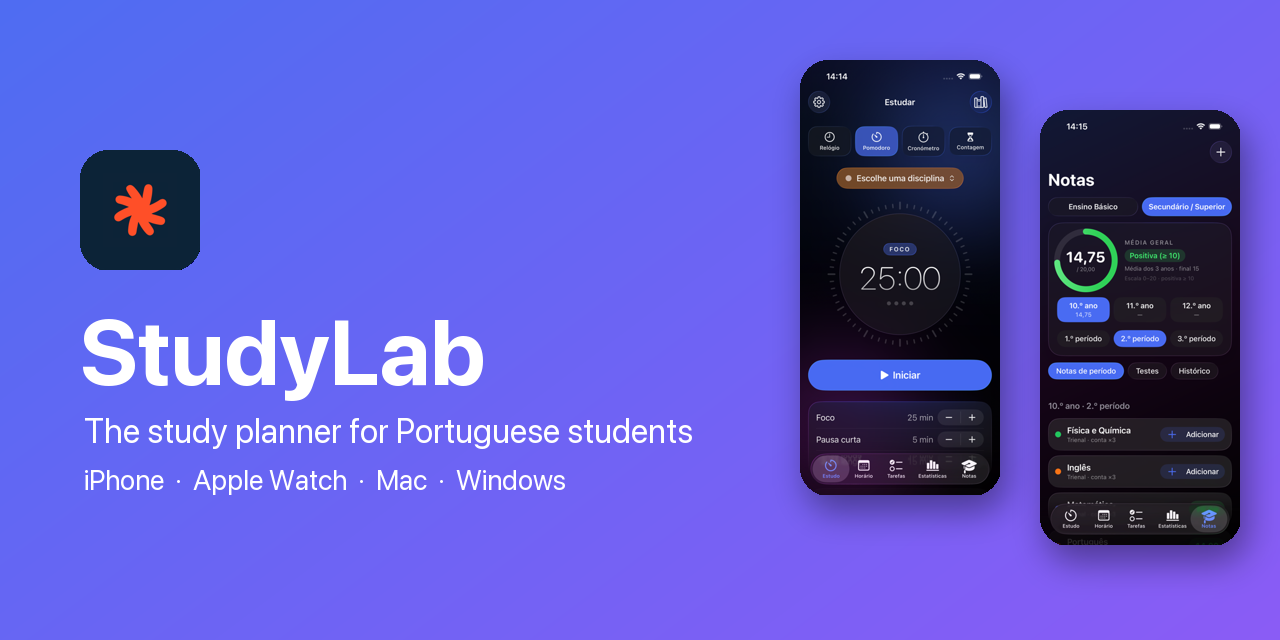
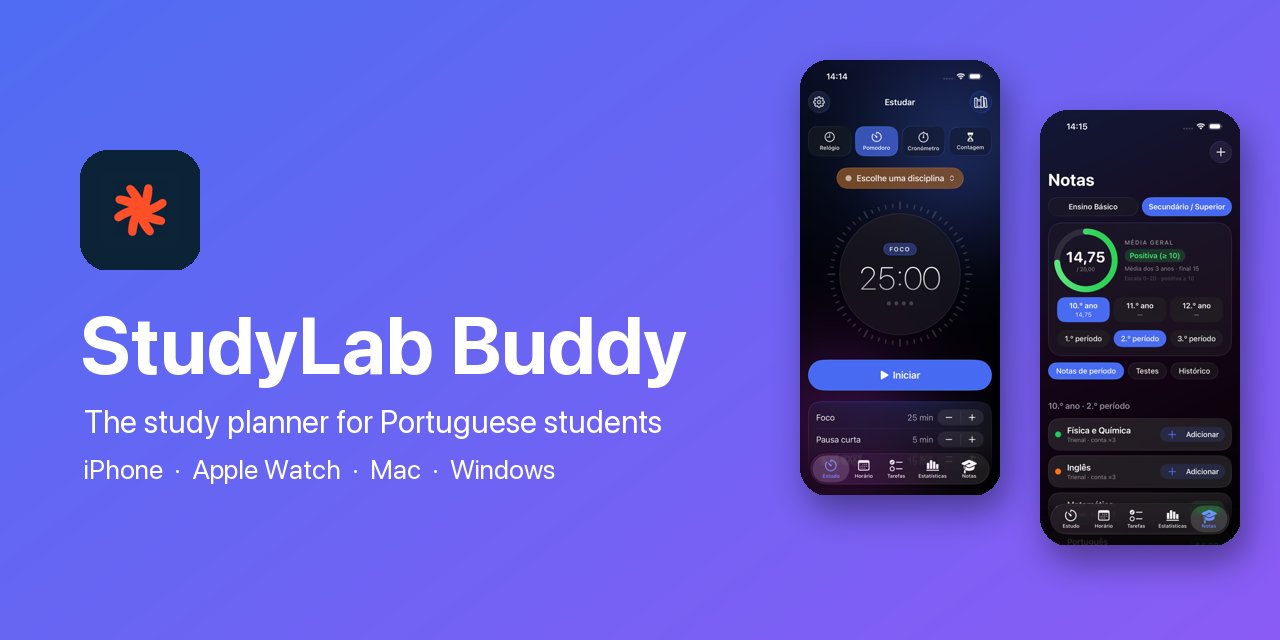
Rebrand to StudyLab Buddy

Changed region(s): [[0.0625, 0.4688, 0.5625, 0.7812]]

diff --git a/apple/StudyLab/Views/Stats/ShareReportView.swift b/apple/StudyLab/Views/Stats/ShareReportView.swift
@@ -27,7 +27,7 @@ struct ReportData {
     var taskPercent: Int { tasksTotal == 0 ? 0 : Int((Double(tasksDone) / Double(tasksTotal) * 100).rounded()) }
 
     func summaryText(studentName: String) -> String {
-        var lines = ["📚 Relatório StudyLab" + (studentName.isEmpty ? "" : " – \(studentName)"), periodTitle, ""]
+        var lines = ["📚 Relatório StudyLab Buddy" + (studentName.isEmpty ? "" : " – \(studentName)"), periodTitle, ""]
         lines.append("⏱ Estudo: \(DurationFormat.short(seconds: totalSeconds)) em \(sessionCount) sessões")
         for slice in slices.sorted(by: { $0.hours > $1.hours }) {
             lines.append("  • \(slice.name): \(DurationFormat.hours(slice.hours))")
@@ -51,7 +51,7 @@ struct ReportCardView: View {
     var body: some View {
         VStack(alignment: .leading, spacing: 16) {
             VStack(alignment: .leading, spacing: 4) {
-                Text("StudyLab").font(.caption.weight(.bold)).tracking(2).foregroundStyle(.white.opacity(0.8))
+                Text("StudyLab Buddy").font(.caption.weight(.bold)).tracking(2).foregroundStyle(.white.opacity(0.8))
                 Text(studentName.isEmpty ? "Relatório de estudo" : "Relatório de estudo de \(studentName)")
                     .font(.title2.bold()).foregroundStyle(.white)
                 Text(data.periodTitle).font(.subheadline).foregroundStyle(.white.opacity(0.85))
@@ -192,7 +192,7 @@ struct ShareReportSheet: View {
                         GlassEffectContainer(spacing: 12) {
                             VStack(spacing: 12) {
                                 ShareLink(item: image,
-                                          preview: SharePreview("Relatório StudyLab", image: image)) {
+                                          preview: SharePreview("Relatório StudyLab Buddy", image: image)) {
                                     Label("Partilhar como imagem", systemImage: "photo")
                                         .frame(maxWidth: .infinity).padding(.vertical, 6)
                                 }

diff --git a/windows/src/pages/Settings.tsx b/windows/src/pages/Settings.tsx
@@ -63,7 +63,7 @@ export default function SettingsPage() {
           <Toggle checked={s.timerAlerts} onChange={v => actions.setSettings({ timerAlerts: v })} label="Alertas do temporizador" />
           <div className="toggle-row">
             <div className="toggle-label">Notificação de teste</div>
-            <Button onClick={async () => { await ensureNotificationPermission(); notify('As notificações do StudyLab estão ativas', 'Vais receber lembretes como este.') }}>Enviar</Button>
+            <Button onClick={async () => { await ensureNotificationPermission(); notify('As notificações do StudyLab Buddy estão ativas', 'Vais receber lembretes como este.') }}>Enviar</Button>
           </div>
         </Section>
 
@@ -96,7 +96,7 @@ export default function SettingsPage() {
           <div className="toggle-row"><span>Navegar entre secções</span><span className="muted mono">Ctrl + 1 … 5</span></div>
           <div className="toggle-row"><span>Definições</span><span className="muted mono">Ctrl + ,</span></div>
         </Section>
-        <p className="muted small" style={{ textAlign: 'center' }}>StudyLab 1.0 · O teu planeador de estudo</p>
+        <p className="muted small" style={{ textAlign: 'center' }}>StudyLab Buddy 1.0 · O teu planeador de estudo</p>
       </div>
       {pending && <Confirm title={COPY[pending].title} message={COPY[pending].message} onCancel={() => setPending(null)} onConfirm={confirm} />}
     </>

diff --git a/windows/src/pages/Stats.tsx b/windows/src/pages/Stats.tsx
@@ -132,7 +132,7 @@ function ShareModal({ data, onClose }: { data: ReportData; onClose: () => void }
   }, [withGrades, db, level])
 
   const text = () => {
-    const lines = [`📚 Relatório StudyLab${name ? ` – ${name}` : ''}`, data.periodTitle, '',
+    const lines = [`📚 Relatório StudyLab Buddy${name ? ` – ${name}` : ''}`, data.periodTitle, '',
       `⏱ Estudo: ${shortDur(data.totalSeconds)} em ${data.sessionCount} sessões`,
       ...data.slices.map(s => `  • ${s.name}: ${hours(s.value)}`)]
     if (data.tasksTotal) lines.push(`✅ Tarefas concluídas: ${data.tasksDone}/${data.tasksTotal} (${Math.round(data.tasksDone / data.tasksTotal * 100)}%)`)

diff --git a/apple/StudyLab/Services/NotificationManager.swift b/apple/StudyLab/Services/NotificationManager.swift
@@ -35,7 +35,7 @@ final class NotificationManager: NSObject, UNUserNotificationCenterDelegate {
     func sendTestNotification() async {
         guard await requestAuthorization() else { return }
         let content = UNMutableNotificationContent()
-        content.title = "As notificações do StudyLab estão ativas"
+        content.title = "As notificações do StudyLab Buddy estão ativas"
         content.body = "Vais receber lembretes como este."
         content.sound = .default
         let trigger = UNTimeIntervalNotificationTrigger(timeInterval: 3, repeats: false)

diff --git a/apple/StudyLab/Views/Settings/SettingsView.swift b/apple/StudyLab/Views/Settings/SettingsView.swift
@@ -88,7 +88,7 @@ struct SettingsView: View {
 
                 Section {
                     if status == .denied {
-                        Label("As notificações do StudyLab estão desativadas nas Definições do sistema.", systemImage: "bell.slash")
+                        Label("As notificações do StudyLab Buddy estão desativadas nas Definições do sistema.", systemImage: "bell.slash")
                             .foregroundStyle(.orange)
                         Button("Abrir Definições do sistema") {
                             Self.openSystemSettings()

diff --git a/apple/StudyLabWatch/Views/TodayView.swift b/apple/StudyLabWatch/Views/TodayView.swift
@@ -21,7 +21,7 @@ struct TodayView: View {
                 let nowMinutes = (comps.hour ?? 0) * 60 + (comps.minute ?? 0)
                 List {
                     if link.snapshot == nil {
-                        Text("Abre o StudyLab no iPhone para sincronizar o horário.")
+                        Text("Abre o StudyLab Buddy no iPhone para sincronizar o horário.")
                             .font(.footnote).foregroundStyle(.secondary)
                     } else if classes.isEmpty {
                         Label("Sem aulas hoje", systemImage: "moon.stars")

diff --git a/apple/StudyLab/ContentView.swift b/apple/StudyLab/ContentView.swift
@@ -103,7 +103,7 @@ struct ContentView: View {
                     .background(LinearGradient(colors: [Color(hex: "#4F6DF2"), Color(hex: "#8B5CF6")],
                                                startPoint: .topLeading, endPoint: .bottomTrailing),
                                 in: RoundedRectangle(cornerRadius: 9))
-                Text("StudyLab").font(.title3.weight(.bold))
+                Text("StudyLab Buddy").font(.title3.weight(.bold))
                 Spacer()
             }
             .padding(.horizontal, 16)

diff --git a/apple/StudyLabWatch/Views/TasksView.swift b/apple/StudyLabWatch/Views/TasksView.swift
@@ -26,7 +26,7 @@ struct TasksView: View {
         NavigationStack {
             List {
                 if link.snapshot == nil {
-                    Text("Abre o StudyLab no iPhone para sincronizar as tarefas.")
+                    Text("Abre o StudyLab Buddy no iPhone para sincronizar as tarefas.")
                         .font(.footnote).foregroundStyle(.secondary)
                 } else if tasks.isEmpty {
                     Label("Tudo em dia", systemImage: "checkmark.seal").foregroundStyle(.secondary)

diff --git a/windows/src/timer.tsx b/windows/src/timer.tsx
@@ -129,7 +129,7 @@ export function TimerProvider({ children }: { children: ReactNode }) {
   // Taskbar progress + window title
   useEffect(() => {
     window.studylab?.setProgress(active && duration ? ringProgress : -1)
-    document.title = active ? `${clock(displaySeconds)} · StudyLab` : 'StudyLab'
+    document.title = active ? `${clock(displaySeconds)} · StudyLab Buddy` : 'StudyLab Buddy'
   }, [active, ringProgress, duration, displaySeconds])
 
   const start = () => {

diff --git a/apple/StudyLabWatch/Views/StudyView.swift b/apple/StudyLabWatch/Views/StudyView.swift
@@ -177,7 +177,7 @@ struct SubjectPicker: View {
                         }
                     }
                 } else {
-                    Text("Abre o StudyLab no iPhone para sincronizar as tuas disciplinas.")
+                    Text("Abre o StudyLab Buddy no iPhone para sincronizar as tuas disciplinas.")
                         .font(.footnote)
                         .foregroundStyle(.secondary)
                 }

diff --git a/windows/index.html b/windows/index.html
@@ -3,7 +3,7 @@
   <head>
     <meta charset="UTF-8" />
     <meta name="viewport" content="width=device-width, initial-scale=1.0" />
-    <title>StudyLab</title>
+    <title>StudyLab Buddy</title>
     <script>
       try {
         var st = (JSON.parse(localStorage.getItem('studylab.db.v1') || '{}').settings || {}).theme || 'system'

diff --git a/windows/src/App.tsx b/windows/src/App.tsx
@@ -108,7 +108,7 @@ function Shell() {
         <aside className="sidebar">
           <div className="brand">
             <img src="./star.png" alt="" />
-            <span>StudyLab</span>
+            <span>StudyLab Buddy</span>
           </div>
           <nav>
             {NAV.map((n, i) => (
